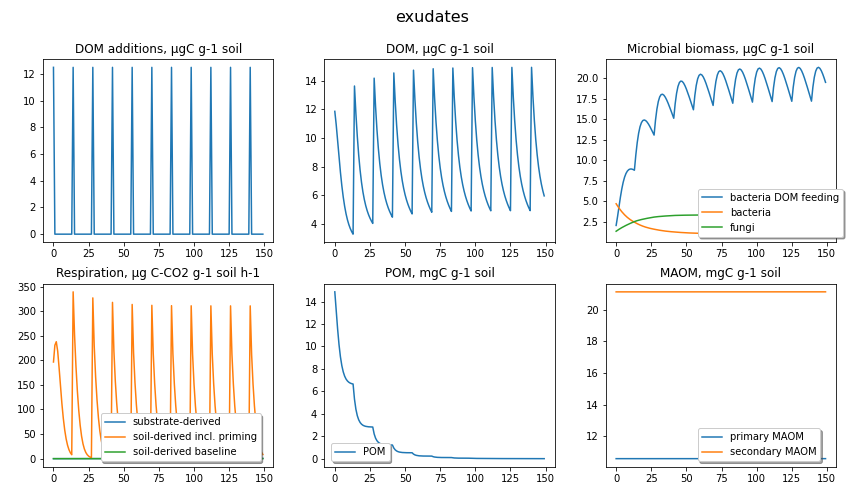
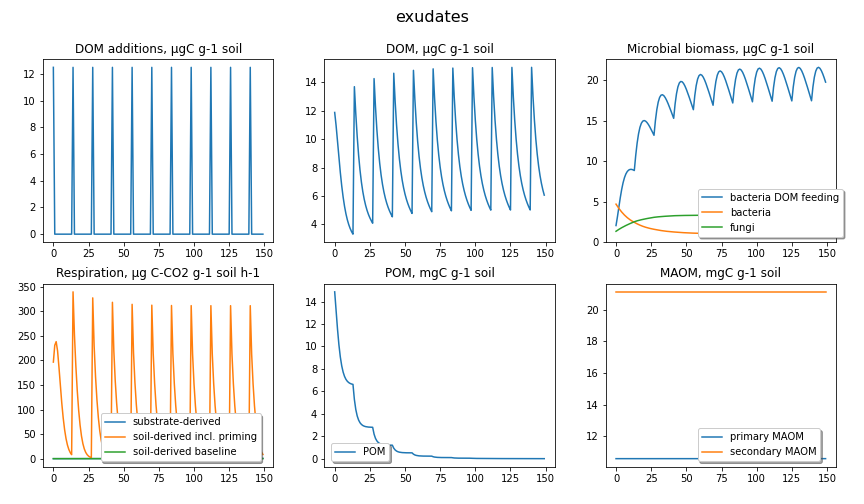
corrected maxMAOMs which depends on current MAOMp

diff --git a/potPrimingMAOM.py b/potPrimingMAOM.py
@@ -67,7 +67,7 @@ fClay=0.17 #weight fraction [g/g], Jílková2022
 fSilt=0.24 #weight fraction [g/g], Jílková2022
 maxMAOM = 0.86 * (fClay + fSilt)*100 * BD #[gC/m3] maximum MAOM, 28208 for Jílková et al. 2022 Georgiou et al. 2022: 86 ± 9 and 48 ± 6 mg C/g silt+clay mineral for HM and LM,
 maxMAOMp = maxMAOM/(MAOMratioSP+1)  # maximum primary MAOM
-maxMAOMs = maxMAOM-maxMAOMp  # maximum primary MAOM
+
 siltSA=45.4 #m²/kg
 maxSurfaceArea=claySA*BD*fClay+siltSA*BD*fSilt #total surface area of clay and silt in m²/m³
 PV=15 #!TODO volume of micropores [l/m3] but overwritten by next line
@@ -137,7 +137,7 @@ for i in range(len(DOMinput_treatments)):
     MAOM=25368 #C in MAOM [gC/m3] average noAdd Jílková2022 
     MAOM_sub = 0 # proportion of MAOM that is substrate derived in contrast to soil-derived / values 0 to 1/
     MAOMunavail = (PSA[0]/sum(PSA))*MAOM #the portion of MAOM stored in the smallest pores is really unavailable
-    MAOMp = MAOM/(MAOMratioSP+1) #primary MAOM [gC/m3]
+    MAOMp = MAOM/(MAOMratioSP+1) #primary MAOM [gC/m3] initialised at the ratio of saturation
     MAOMs = MAOM-MAOMp #secondary MAOM[gC/m3]
     POM=13032  # C in POM [gC/m3], calculated as initialSOM-MAOM using initialSOM from Jílková2022
 
@@ -155,6 +155,8 @@ for i in range(len(DOMinput_treatments)):
             DOM_sub= DOM_sub_abs/DOM #update relative substrate derived C in DOM
             DOM_N+=DOMinput/CN_DOMinput #add equivalent amount of N to DON pool
             CN_DOM=DOM/DOM_N #calculate new CN of DOM pool
+        # saturation of MAOMs depends on amount of MAOMp so recalculated every day
+        maxMAOMs = MAOMp*MAOMratioSP  # maximum primary MAOM
         # microbial growth on DOM and priming
         DOM, DOM_sub, DOM_N, CN_DOM, bact_DOM, bact_DOM_sub, POM, MAOM, respDOM, respDOM_sub, respPriming = mf.calcRhizosphere(Priming, POM, CN_POM, MAOM, CN_MAOM, bact_DOM, bact_DOM_sub, CN_bact, DOM, DOM_sub, CN_DOM, GMAX, DEATH, pCN, pH, rRESP, KS, DOM_EC, Priming_max, kpriming, kPOM_MAOM)
         #MAOM formation
